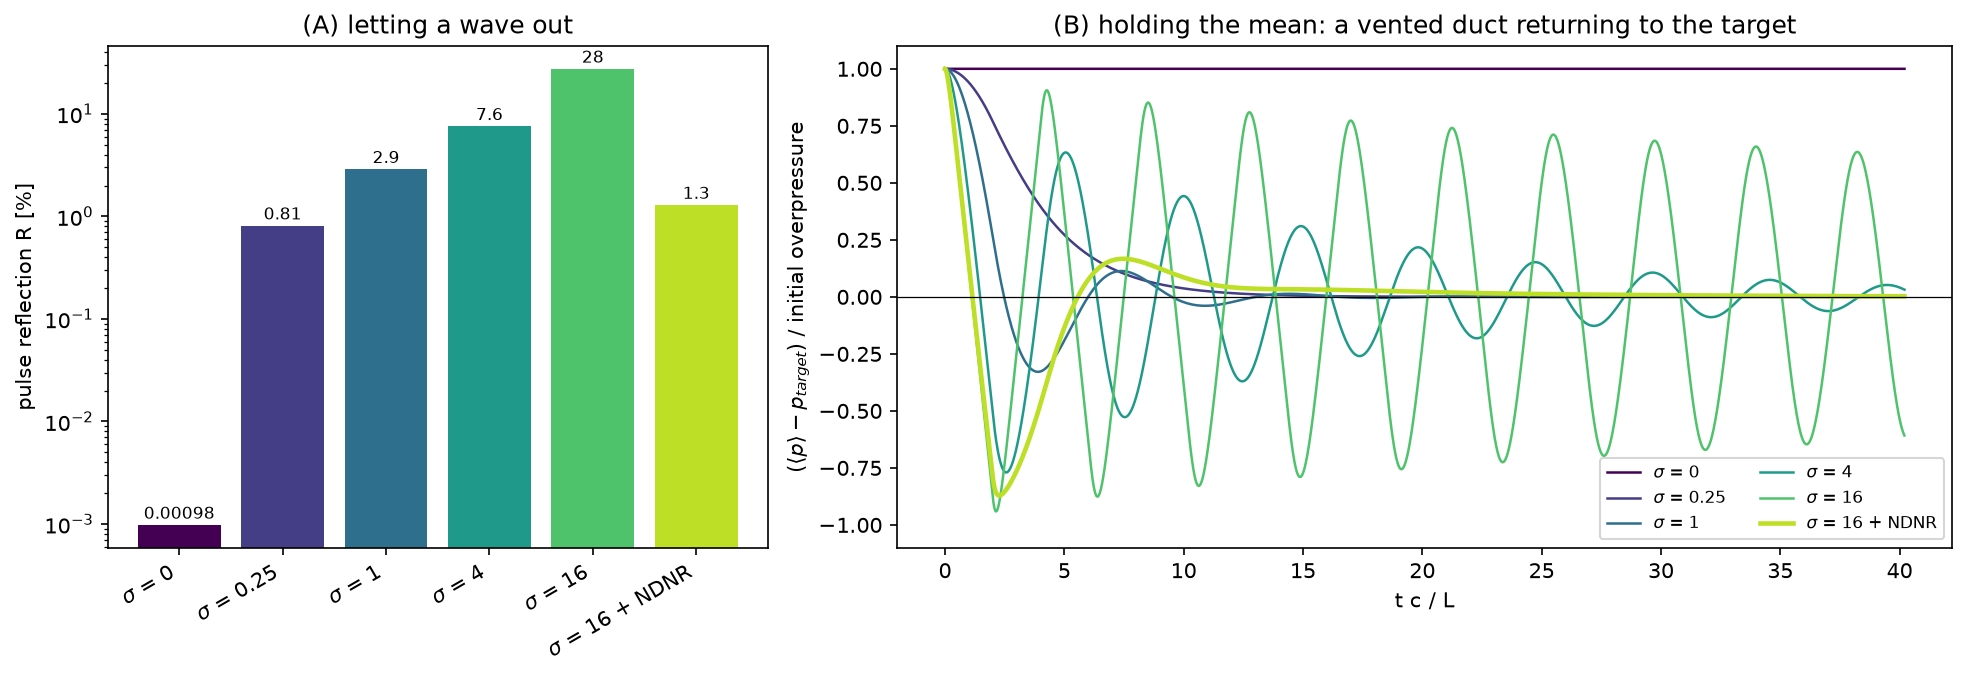
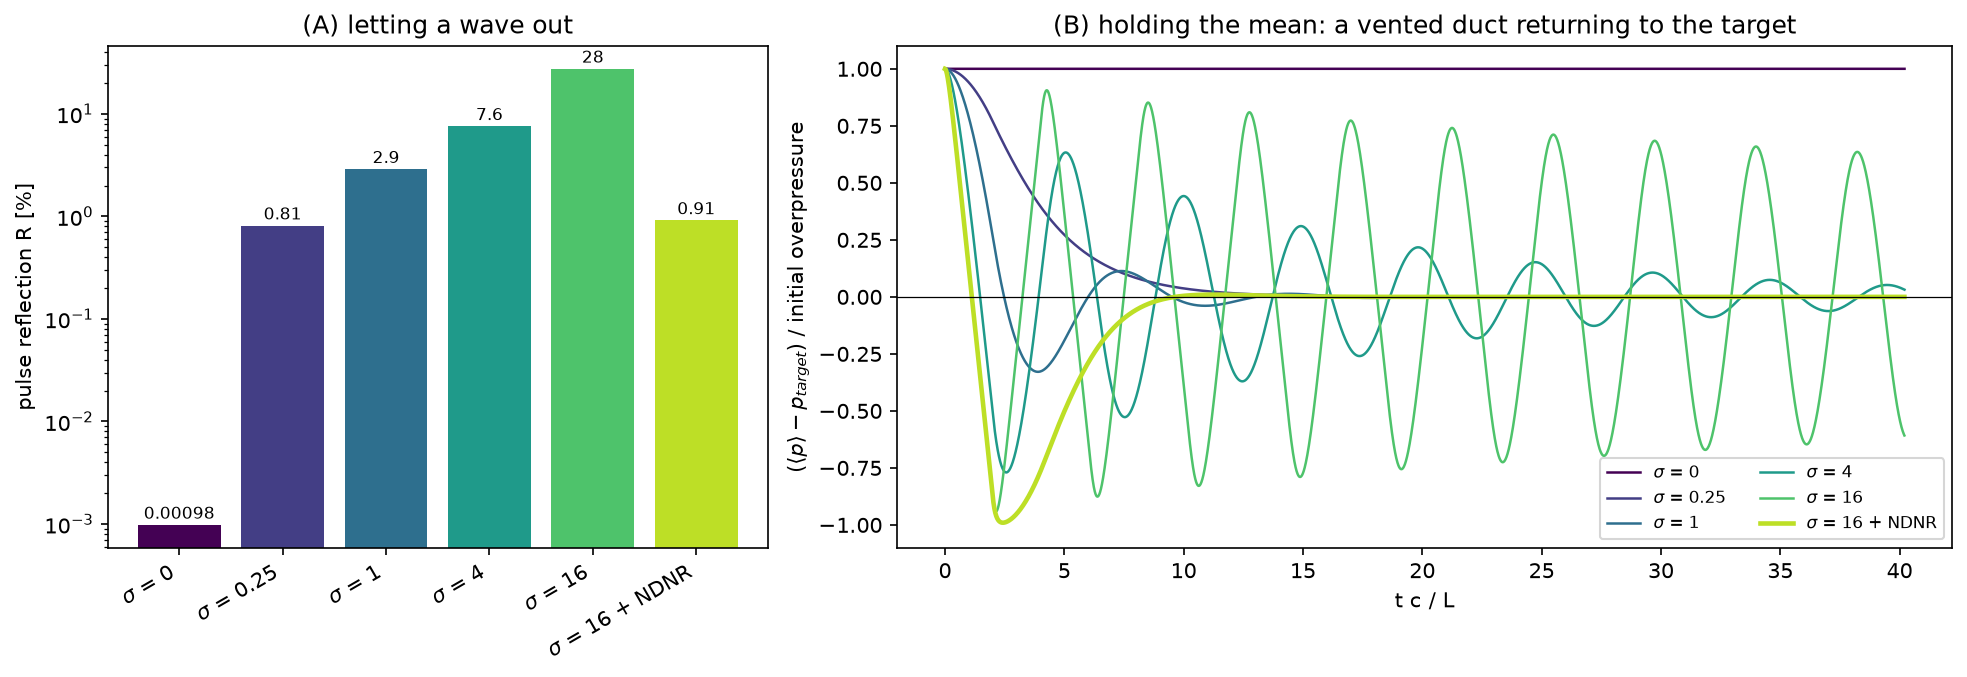
NSCBC tutorial: re-measure the register rungs on the deviation-form registers
The stack's 6/7 now forms the register's outgoing wave from deviations
of u and p (no p/(rho c) carried whole). Re-run every register variant:

  rung 2: sigma = 16 + NDNR reflects 0.92% (was 1.3%) and returns the
          mean within 1% in 9 transits (was 27) -- sooner than sigma =
          0.25, so it is no longer "worse for a one-off disturbance".
  rung 3: dudt + NRI injects 0.96 / 0.96 / 1.01 at relax_u 0.5 / 2 / 5
          (was 0.95 / 0.94 / 1.00); on resonance 0.92 (was 0.89).
  rung 4: NRI with TurbInflow still amplifies, 1.39 (was 1.40).
  rung 6: the flame leaving through sigma = 16 + closures + NDNR reads
          -1,062 (was -145,475); NDNR does no harm with a crossing front,
          and the "never combine NDNR with a front" rule is gone.

Every rung's plot.py reproduces its references.

diff --git a/Exec/Tutorials/NSCBC/03-inflow/plot.py b/Exec/Tutorials/NSCBC/03-inflow/plot.py
@@ -22,7 +22,7 @@ REFERENCE = {
     "step_k3": 19.9, "step_k10": 20.0,
     "force_k0.5_plain": 0.223, "force_k2_plain": 1.48, "force_k5_plain": 4.56,
     "force_k0.5_ff": 1.13, "force_k2_ff": 2.34, "force_k5_ff": 5.08,
-    "force_k0.5_ffnri": 0.946, "force_k2_ffnri": 0.938, "force_k5_ffnri": 1.0,
+    "force_k0.5_ffnri": 0.960, "force_k2_ffnri": 0.963, "force_k5_ffnri": 1.01,
 }
 
 

diff --git a/Exec/Tutorials/NSCBC/06-crossing-the-outflow/plot.py b/Exec/Tutorials/NSCBC/06-crossing-the-outflow/plot.py
@@ -39,7 +39,7 @@ REFERENCE = {
     "flame_closures": (-8818, -250.3, 0.23),
     "flame_s16_defaults": (1561, 8.5, 0.23),
     "flame_s16_closures": (-432, 8.5, 0.22),
-    "flame_s16_closures_ndnr": (-145475, -33983.4, 0.23),
+    "flame_s16_closures_ndnr": (-1062, -13.7, 0.22),
 }
 
 

diff --git a/Exec/Tutorials/NSCBC/02-outflow-sigma/plot.py b/Exec/Tutorials/NSCBC/02-outflow-sigma/plot.py
@@ -26,7 +26,7 @@ REFERENCE = {
     "s1": (2.89, 0.0016),
     "s4": (7.57, 0.21),
     "s16": (27.5, 0.74),
-    "s16_ndnr": (1.29, 0.021),
+    "s16_ndnr": (0.915, 9.9e-05),
 }
 
 fig, (ax_r, ax_m) = nt.plt.subplots(

diff --git a/Exec/Tutorials/NSCBC/04-turbulent-inflow/plot.py b/Exec/Tutorials/NSCBC/04-turbulent-inflow/plot.py
@@ -23,7 +23,7 @@ REFERENCE = {
     "u20": (0.76, 0.32),
     "t20": (1.16, 0.90),
     "ut20": (0.93, 0.90),
-    "ut20_nri": (1.40, 0.90),
+    "ut20_nri": (1.39, 0.90),
 }
 
 

diff --git a/Exec/Tutorials/NSCBC/06-crossing-the-outflow/README.md b/Exec/Tutorials/NSCBC/06-crossing-the-outflow/README.md
@@ -90,7 +90,7 @@ keeps its schedule `x(0) + V t` (`V = U` inert, `U − S_L` burning).
 | σ = 0.25, eT = 1, β_s = 0 | −8,818 (0.9%) | −250 | on schedule |
 | σ = 16 | +1,561 | +8.5 | on schedule |
 | σ = 16, eT = 1, β_s = 0 | −432 | +8.5 | on schedule |
-| σ = 16, eT = 1, β_s = 0, **NDNR** | **−145,475** (14%) | −33,983 | on schedule, pressure wrecked |
+| σ = 16, eT = 1, β_s = 0, NDNR | −1,062 | −13.7 | on schedule |
 
 * **With all defaults the flame never leaves.** Heat release in the boundary
   cells is sustained dilatation; the relaxation has nowhere to put it, and at
@@ -109,12 +109,12 @@ keeps its schedule `x(0) + V t` (`V = U` inert, `U − S_L` burning).
 * **σ = 16 lets the flame out on its own** (+1,561, 0.15%), and with the
   closures as well it is the quietest characteristic outflow (−432, about
   twice the hard outflow's excursion). It costs the reflection of sound.
-* **Never combine NDNR with a crossing front.** The NDNR register estimates
-  the outgoing wave from `u + p / ρc`, with `ρc` a slow average. The front
-  changes `ρc` at the face by a factor of about 2 while the pressure stays
-  put, so the estimate swings as if a strong wave were leaving, and the boundary
-  pulls the domain 14% below ambient. NDNR is for sound against a steady
-  background (rung 2).
+* **NDNR does no harm while a front crosses, and no good.** The register
+  estimates the outgoing wave from the *deviations* of `u` and `p`, so the
+  front's change of impedance (`ρc` halves across it) does not read as a
+  wave: with NDNR the σ = 16 closures row reads −1,062 against −432 without.
+  Keep it for what it is for — letting sound out of a stiff boundary
+  (rung 2).
 
 ## What crosses, and what to set
 
@@ -124,7 +124,6 @@ keeps its schedule `x(0) + V t` (`V = U` inert, `U − S_L` burning).
 | sound at an angle, vortices, shear | yes, with transverse terms | `beta = 0.5` (0.8 for shallow sound) | 5 |
 | an inert hot or compositional front | only with stiff anchoring | σ ≈ 16, or a hard outflow if no sound must leave | 6A |
 | a flame | yes, with the flame closures or stiff anchoring | eT = 1, β_s = 0; σ = 16 for the quietest exit | 6B |
-| any front, with NDNR on | **no** | `ndnr = 0` | 6 |
 | flow coming *in* | with the reservoir closure | `backflow_material = 1` and `t.T`, `t.Y` | 7 |
 
 The order to try things in, when a structure must leave and the domain
@@ -141,7 +140,7 @@ cannot be longer:
    and leave `extrap_temperature` at 0, which is better at both σ here.
    Only a hot front followed by cold gas is measured; for other jumps (a
    cold slug, a fuel jet) watch the mean pressure as it leaves.
-4. **Never** turn on NDNR or `extrap_material` where fronts cross.
+4. **Never** turn on `extrap_material` where fronts cross.
 5. **Check:** the domain-mean pressure while the front leaves, and the
    fallback report. A `flow reversal` count that keeps growing while a front
    is at the outflow means the boundary is pushing it back — the blocked

diff --git a/Exec/Tutorials/NSCBC/02-outflow-sigma/README.md b/Exec/Tutorials/NSCBC/02-outflow-sigma/README.md
@@ -37,7 +37,7 @@ back over about four acoustic transits; σ = 16 within a sixteenth of one.
 | 1 | 2.9 | 2 × 10⁻³ |
 | 4 | 7.6 | 0.21 — still ringing |
 | 16 | 28 | 0.74 — barely damped |
-| 16 + NDNR | 1.3 | 0.02 |
+| 16 + NDNR | 0.92 | 1 × 10⁻⁴ |
 
 * **σ = 0 is perfectly transparent and perfectly unanchored.** The pulse
   leaves without a trace, but the overpressure in (B) stays forever: nothing
@@ -53,24 +53,23 @@ back over about four acoustic transits; σ = 16 within a sixteenth of one.
   transits, with no overshoot at all.
 * **NDNR (`pelec.bc_nscbc_ndnr = 1`) breaks the trade.** The register keeps a
   slow average of the outgoing wave at each boundary point and the relaxation
-  ignores the wave currently leaving, so even σ = 16 reflects only 1.3% and
-  the ringing is gone: one undershoot (−0.87), one small overshoot (+0.17),
-  and within 1% after 27 transits. For a one-off disturbance like this it is
-  *worse* than σ = 0.25; its use is when the mean must be held tightly
-  while sound keeps leaving — a forced or ringing duct. It is for sound
-  only: the register reads the outgoing wave from `u + p / ρc`, and a hot
-  front or a flame crossing the outflow changes `ρc` enough to look like a
-  strong wave (rung 6 measures a 14% pressure drop). Judge an NDNR run over
-  many transits: the register needs a few of its time constants (6 L/c) to
-  form.
+  ignores the wave currently leaving, so even σ = 16 reflects only 0.9% and
+  the ringing is gone: one swing below the target (−0.99), a +0.01
+  overshoot, and within 1% after 9 transits — sooner than σ = 0.25 (13),
+  though through a full swing that σ = 0.25 never makes. Its use is when the
+  mean must be held tightly while sound keeps leaving — a forced or ringing
+  duct. The register reads the outgoing wave from the *deviations* of
+  `u` and `p`, so a hot front or a flame crossing the outflow does not fool
+  it (rung 6). Judge an NDNR run over many transits: the register needs a few
+  of its time constants (6 L/c) to form.
 
 ## Rules of thumb
 
 * Start at σ = 0.25. Check two time scales: τ_relax = L / (σ c) must be well
   above an acoustic transit (or waves reflect) and well below the run time
   (or the mean drifts). PeleC prints τ_relax in transits at startup.
-* If the mean must be held tightly and only sound crosses the outflow,
-  raise σ **with** `bc_nscbc_ndnr = 1`, not instead of it.
+* If the mean must be held tightly, raise σ **with** `bc_nscbc_ndnr = 1`,
+  not instead of it.
 * A boundary that rings or reflects at every reasonable σ is usually sitting
   on something it cannot handle — rungs 5–7.
 

diff --git a/Docs/sphinx/TutorialNSCBC.rst b/Docs/sphinx/TutorialNSCBC.rst
@@ -79,7 +79,7 @@ The same duct, for :math:`\sigma` from 0 to 16: the reflection of a pulse (left)
 overpressure to the target (right). :math:`\sigma = 0` is perfectly transparent and never anchors; raising
 :math:`\sigma` anchors faster and reflects more (27.5% at 16), and from :math:`\sigma \approx 4` the duct rings.
 The default 0.25 reflects under 1% and returns the mean without overshoot. The NDNR register breaks the trade
-for sound (1.3% at :math:`\sigma = 16`) but must not be used where fronts cross (rung 6).
+for sound: 0.9% at :math:`\sigma = 16`, and the mean back within 1% in 9 transits.
 
 Rung 3 — the subsonic inflow
 ^^^^^^^^^^^^^^^^^^^^^^^^^^^^
@@ -132,8 +132,8 @@ The flame closures (``extrap_temperature = 1``, ``beta_s = 0``) let it out on sc
 with a 0.9% dip; :math:`\sigma = 16` lets it out alone (0.15%), and with the closures has about twice a hard
 outflow's excursion. An inert hot
 front needs stiff anchoring instead (:math:`\sigma \approx 16`): at :math:`\sigma = 0.25` the defaults leave a 2%
-excursion and ``extrap_temperature = 1`` alone over-vents (−7.7%). The NDNR register reads a crossing front as a
-strong wave and drops the pressure 14%.
+excursion and ``extrap_temperature = 1`` alone over-vents (−7.7%). NDNR does no harm while a front crosses
+(−1,062 at :math:`\sigma = 16` with the closures, against −432 without).
 
 .. list-table::
    :header-rows: 1
@@ -153,9 +153,6 @@ strong wave and drops the pressure 14%.
      - 6
    * - a flame
      - ``extrap_temperature = 1``, ``beta_s = 0``
-     - 6
-   * - any front, with NDNR on
-     - not supported: ``ndnr = 0``
      - 6
    * - flow coming *in*
      - ``backflow_material = 1`` with ``t.T``, ``t.Y`` in the target

diff --git a/Exec/Tutorials/NSCBC/03-inflow/README.md b/Exec/Tutorials/NSCBC/03-inflow/README.md
@@ -59,9 +59,9 @@ enters the duct, divided by the amplitude of the wave you asked for.
 
 | relax_u | relaxation only | + `dudt` feed-forward | + `dudt` + NRI register |
 |---|---|---|---|
-| 0.5 | 0.22 | 1.13 | 0.95 |
-| 2 | 1.48 | 2.34 | 0.94 |
-| 5 | 4.56 | 5.08 | 1.00 |
+| 0.5 | 0.22 | 1.13 | 0.96 |
+| 2 | 1.48 | 2.34 | 0.96 |
+| 5 | 4.56 | 5.08 | 1.01 |
 
 * **Relaxation alone injects the wrong signal at every stiffness.** A
   relaxation is built to hold a mean; asked to follow a moving target it lags
@@ -76,7 +76,7 @@ enters the duct, divided by the amplitude of the wave you asked for.
 
 Measure an inlet by the wave it injects, not by the velocity you see at it.
 The inlet velocity is the injected wave *plus* whatever the domain sends
-back: with exact injection here it oscillates at only 0.59 of `A`, which is
+back: with exact injection here it oscillates at only 0.61 of `A`, which is
 the duct's standing-wave response, not a boundary error.
 
 ## Rules of thumb
@@ -95,7 +95,7 @@ the duct's standing-wave response, not a boundary error.
 
 * Force on resonance: `prob.force_freq=865.1` (with `stop_time=8.08e-3
   amr.plot_per=4.816e-5`). At `relax_u = 2` relaxation alone injects 0.63 of
-  the wave and feed-forward + NRI 0.89 — yet the inlet velocity hardly moves
+  the wave and feed-forward + NRI 0.92 — yet the inlet velocity hardly moves
   in either case (0.8% and 0.5% of `A`): on resonance the inlet sits at a
   velocity node of the duct, so the wave goes in while the velocity there
   stays put.

diff --git a/Exec/Tutorials/NSCBC/04-turbulent-inflow/README.md b/Exec/Tutorials/NSCBC/04-turbulent-inflow/README.md
@@ -54,7 +54,7 @@ averaged across the duct and over 1–3 ms. At the first cell:
 | `relax_u = 20`, `relax_t = 0.2` | 0.76 | 0.32 |
 | `relax_u = 2`, `relax_t = 20` | 1.16 | 0.90 |
 | `relax_u = 20`, `relax_t = 20` | **0.93** | **0.90** |
-| `relax_u = 20`, `relax_t = 20`, NRI | 1.40 | 0.90 |
+| `relax_u = 20`, `relax_t = 20`, NRI | 1.39 | 0.90 |
 
 * **The defaults filter a turbulent inflow heavily.** Each component is
   relaxed toward its target at a finite rate — `relax_u c / L` for the
@@ -73,7 +73,7 @@ averaged across the duct and over 1–3 ms. At the first cell:
 * **Do not combine NRI with a turbulent inflow.** The register estimates the
   outgoing acoustic wave from `u + p / ρc` at the inlet, and a convected
   eddy's velocity looks like an outgoing wave to it; half of each eddy is fed
-  back into the target and the normal fluctuation is amplified (1.40). NRI is
+  back into the target and the normal fluctuation is amplified (1.39). NRI is
   for injecting acoustic signals (rung 3); PeleC warns when it is enabled
   together with TurbInflow.
 * The decay downstream is the same in every run: the turbulence decays and
